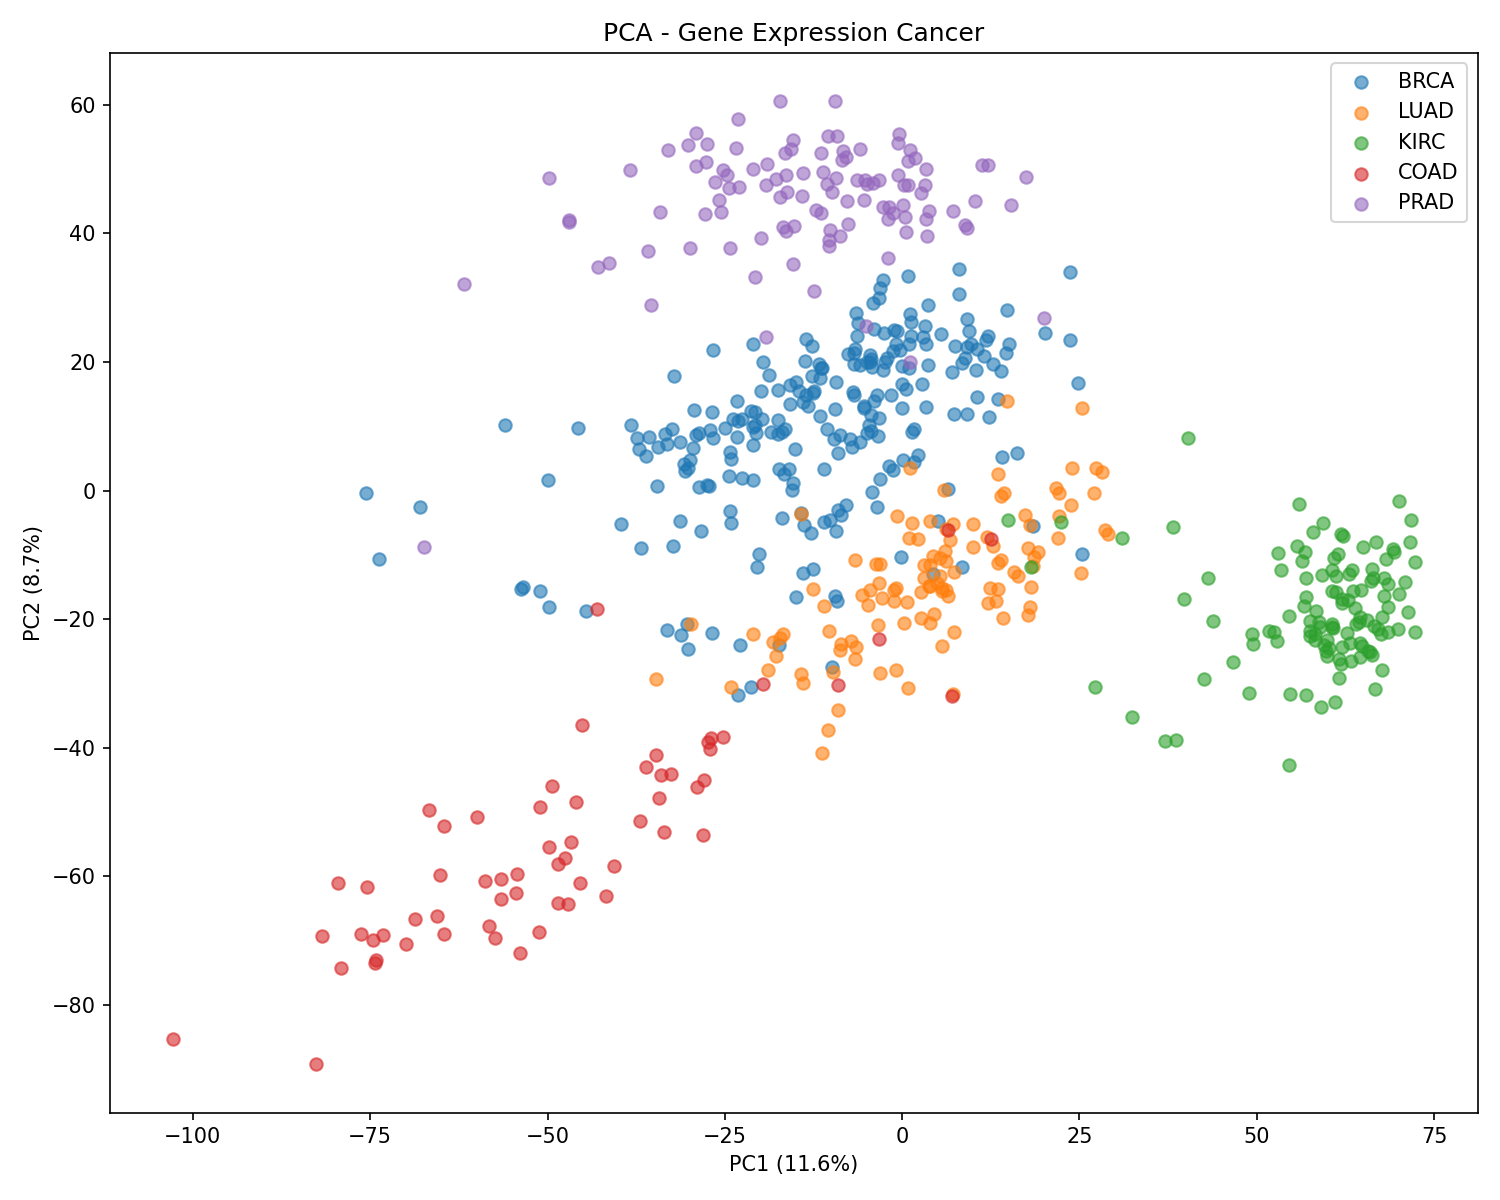
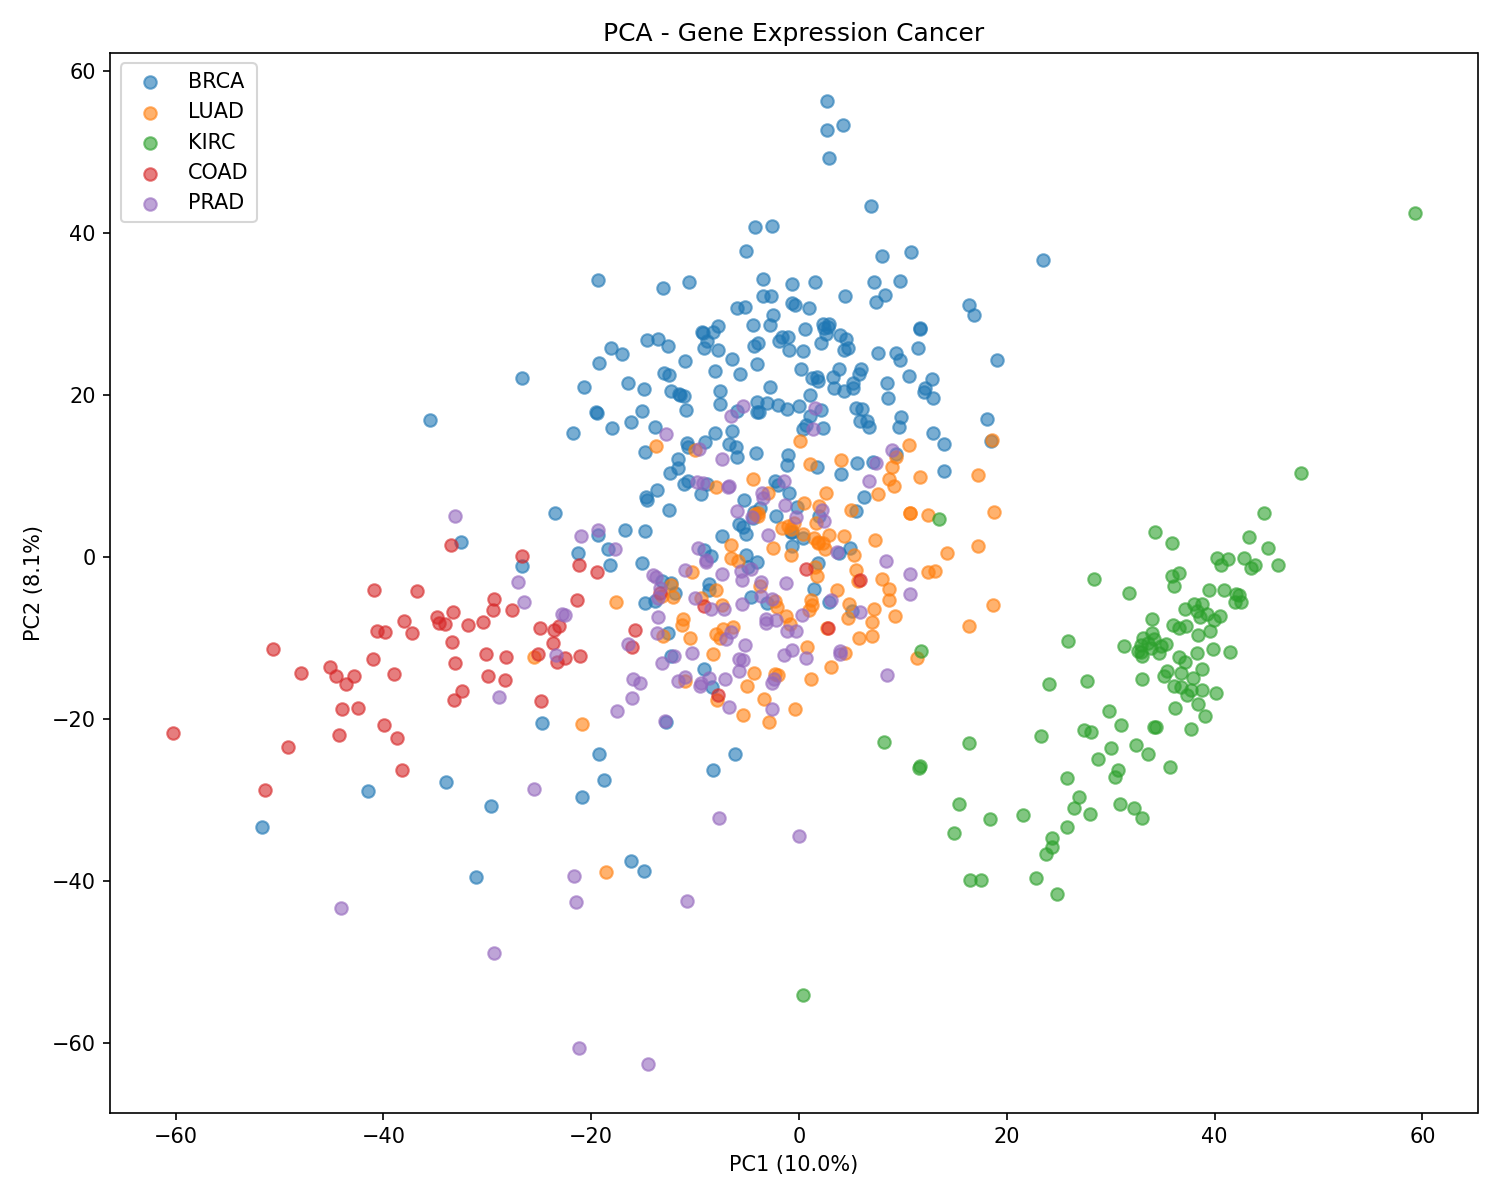
feat: add optional hyperparameter tuning via GridSearchCV

diff --git a/scripts/tune_models.py b/scripts/tune_models.py
@@ -1,0 +1,61 @@
+import pandas as pd
+import json
+from sklearn.pipeline import Pipeline
+from sklearn.preprocessing import StandardScaler
+from sklearn.decomposition import PCA
+from sklearn.model_selection import GridSearchCV
+from sklearn.ensemble import RandomForestClassifier
+from sklearn.linear_model import LogisticRegression
+from sklearn.svm import SVC
+from xgboost import XGBClassifier
+
+if snakemake.params.tune:
+    #load data
+    X_train = pd.read_csv(snakemake.input.X_train, index_col=0)
+    y_train = pd.read_csv(snakemake.input.y_train, index_col=0)['Class']
+
+    #arrange dictionary with models
+    MODELS = {
+        "randomforest": RandomForestClassifier(random_state=snakemake.params.seed),
+        "logistic_regression": LogisticRegression(random_state=snakemake.params.seed),
+        "svm": SVC(probability=True, random_state=snakemake.params.seed),
+        "xgboost": XGBClassifier(random_state=snakemake.params.seed)
+    }
+
+    #get current model and use respective model for grid search
+    model_name = snakemake.wildcards.model
+    estimator = MODELS[model_name]
+
+    #get grid parameters and add clf prefix
+    raw_grid = snakemake.params.param_grid
+    param_grid = {f"clf__{k}": v for k, v in raw_grid.items()}
+
+    #create pipeline with scaling and PCA to avoid data leakage in grid search
+    pipe = Pipeline([
+        ('scaler', StandardScaler()),
+        ('pca', PCA(n_components=snakemake.params.n_components)),
+        ('clf', estimator)
+    ])
+
+    #perform grid search and fit model
+    search = GridSearchCV(
+        pipe,
+        param_grid=param_grid,
+        cv=5,
+        scoring="roc_auc_ovr",
+        n_jobs=snakemake.threads)
+    search.fit(X_train, y_train)
+
+    with open(snakemake.log[0], 'w') as log:
+        log.write(f'Best parameters{search.best_params_}\n')
+        log.write(f'Mean ROC-AUC for all 5 folds {search.best_score_}\n')
+
+    #remove prefix
+    best_params = {k.replace("clf__", ""): v for k, v in search.best_params_.items()}
+
+else: 
+    best_params = snakemake.params.default_grid
+
+#store best parameters as json
+with open(snakemake.output.best_params, 'w') as f:
+    json.dump(best_params, f)

diff --git a/scripts/models/train_xgboost.py b/scripts/models/train_xgboost.py
@@ -1,18 +1,20 @@
-import joblib
+import joblib, json
 import pandas as pd
 from xgboost import XGBClassifier
-from sklearn.preprocessing import LabelEncoder
 
-#load data
+#load data and parameters
 X_train_pca = pd.read_csv(snakemake.input.X_train_pca, index_col=0)
 y_train = pd.read_csv(snakemake.input.y_train, index_col=0)['Class']
+with open(snakemake.input.best_params) as f:
+    best_params = json.load(f)
 
 #define model and train
 xgb = XGBClassifier(
-    n_estimators = 200, 
+    **best_params, 
     eval_metric = 'mlogloss', 
     random_state = snakemake.params.seed,
-    n_jobs = snakemake.threads)
+    n_jobs = snakemake.threads
+    )
 xgb.fit(X_train_pca, y_train)
 
 #save model

diff --git a/scripts/models/train_svm.py b/scripts/models/train_svm.py
@@ -1,13 +1,19 @@
-import joblib
+import joblib, json
 import pandas as pd
 from sklearn.svm import SVC
 
-#load data
+#load data and parameters
 X_train_pca = pd.read_csv(snakemake.input.X_train_pca, index_col=0)
 y_train = pd.read_csv(snakemake.input.y_train, index_col=0)['Class']
+with open(snakemake.input.best_params) as f:
+    best_params = json.load(f)
 
 #define model and train
-svm = SVC(kernel="rbf", probability=True, random_state = snakemake.params.seed)
+svm = SVC(
+    **best_params,
+    probability=True, 
+    random_state = snakemake.params.seed
+    )
 svm.fit(X_train_pca, y_train)
 
 #save model

diff --git a/scripts/models/train_randomforest.py b/scripts/models/train_randomforest.py
@@ -1,14 +1,16 @@
-import joblib
+import joblib, json
 import pandas as pd
 from sklearn.ensemble import RandomForestClassifier
 
-#load data
+#load data and parameters
 X_train_pca = pd.read_csv(snakemake.input.X_train_pca, index_col=0)
 y_train = pd.read_csv(snakemake.input.y_train, index_col=0)['Class']
+with open(snakemake.input.best_params) as f:
+    best_params = json.load(f)
 
 #define model and train
 rf = RandomForestClassifier(
-    n_estimators=200, 
+    **best_params, 
     random_state=snakemake.params.seed, 
     n_jobs = snakemake.threads
     )

diff --git a/scripts/models/train_logistic_regression.py b/scripts/models/train_logistic_regression.py
@@ -1,15 +1,16 @@
-import joblib
+import joblib, json
 import pandas as pd
 from sklearn.linear_model import LogisticRegression
 
-
-#load data
+#load data and parameters
 X_train_pca = pd.read_csv(snakemake.input.X_train_pca, index_col=0)
 y_train = pd.read_csv(snakemake.input.y_train, index_col=0)['Class']
+with open(snakemake.input.best_params) as f:
+    best_params = json.load(f)
 
 #define model and train
 lr = LogisticRegression(
-    max_iter = 1000, 
+    **best_params, 
     random_state = snakemake.params.seed,
     )
 lr.fit(X_train_pca, y_train)

diff --git a/readme.md b/readme.md
@@ -5,6 +5,7 @@ This project demonstrates a fully reproducible RNA-seq analysis pipeline using S
 - automated preprocessing, PCA and model training pipeline
 - training and evaluation of multiple machine learning models
 - automated and reproducible pipeline execution
+- optional hyperparameter tuning via GridSearchCV
 
 ## Background
 Cancer is one of the leading causes of death worldwide, with 10 million deaths in 2022 according to the WHO. Among the most common types of cancer are lung, breast, colon and rectum and prostate cancers [1]. 
@@ -29,11 +30,11 @@ This workflow implements a fully reproducible pipeline using Snakemake as workfl
 ```
 rna-seq/
 ├── Snakefile
-├── config/ # pipeline configuration
-├── data/   # raw input data (not tracked)
-├── envs/   # conda environments
-├── scripts/ # Python scripts per rule
-├── logs/ #Snakemake logs (not tracked)
+├── config/     # pipeline configuration
+├── data/       # raw input data (not tracked)
+├── envs/       # conda environments
+├── scripts/    # Python scripts per rule
+├── logs/       # Snakemake logs (not tracked)
 ├── benchmarks/ # Snakemake benchmarks (not tracked)
 └── results/    # all pipeline outputs (not tracked)
 ```
@@ -58,13 +59,12 @@ The models are compared across the following metrics using a One-vs-Rest strateg
 ![DAG](plots/rulegraph.png)
 
 ## Results
-All models performed well, with an accuracy of 0.98 or above and Macro AUC scores of 1 across all cancer types. The high performance across all models suggests that the five cancer types are well-separable in gene expression space, which is consistent with the clear cluster structure visible in the PCA plot.
-Logistic Regression achieved perfect scores across all metrics, which likely reflects the strong linear separability of the PCA-reduced data rather than overfitting given the small number of components. SVM performed second best, while Random Forest and XGBoost showed comparable but slightly lower performance. As this is a single dataset without external validation, results should be interpreted with caution.
+After hyperparameter tuning, all models performed well, with an accuracy of 0.97 or above and Macro AUC scores of 0.998 or above across all models. SVM achieved perfect scores across all metrics, while Logistic Regression and XGBoost showed slightly lower but strong performance. Random Forest performed comparably but slightly below the other models. The high performance across all models suggests that the five cancer types are well-separable in gene expression space, which is consistent with the clear cluster structure visible in the PCA plot. The strong scores likely reflect the separability of the PCA-reduced data rather than overfitting, given the small number of components. As this is a single dataset without external validation, results should be interpreted with caution.
 
 ### PCA of Gene Expression Profiles
 ![PCA](plots/pca_plot.png)
 
-Despite PC1 and PC2 explaining only 11.6% and 8.7% of the total variance respectively, the five cancer types form clearly distinct clusters, indicating strong biological signal in the data.
+Despite PC1 and PC2 explaining only 10.0% and 8.1% of the total variance respectively, the five cancer types form clearly distinct clusters, indicating strong biological signal in the data.
 
 ### Model Performance Comparison
 ![Heatmap](plots/heatmap.png)
@@ -72,8 +72,7 @@ Despite PC1 and PC2 explaining only 11.6% and 8.7% of the total variance respect
 ## Limitations
 - **Single dataset without external validation:** All models are trained and evaluated on one dataset. Performance may not generalise to other cohorts or sequencing protocols.
 - **Simplified problem setting:** The selected cancer types are known to be well-separated in gene expression space, making this a relatively easy classification task compared to real-world scenarios.
-- **No hyperparameter tuning:** Models were trained with default or minimal 
-  parameter settings, leaving room for further optimisation.
+- **Hyperparameter tuning:** Scaler and PCA were fitted on the entire training set prior to cross-validation, which introduces a small optimistic bias in hyperparameter tuning.
 - **PCA information loss:** Dimensionality reduction to 50 components retains only a fraction of total variance, potentially discarding relevant signal.
 
 ## Usage
@@ -90,6 +89,8 @@ The workflow manages all dependencies automatically via conda. Run with:
 snakemake --cores N --use-conda
 ```
 Replace `N` with the number of cores to use.
+
+Hyperparameter tuning is optional and has to be enabled in the config file.
 
 ## References
 [1] Ferlay J, Ervik M, Lam F, Colombet M, Mery L, Piñeros M, et al. Global Cancer Observatory: Cancer Today. Lyon: International Agency for Research on Cancer; 2022 (https://gco.iarc.fr/today, accessed April 2026). 
